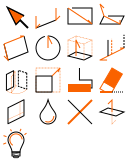
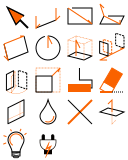
feat(plugins): plugin base and manager

Changed region(s): [[0.75, 0.1875, 1.0, 0.375], [0.2812, 0.8438, 0.4688, 1.0]]

diff --git a/core/src/main/kotlin/com/github/alfu32/sketch/ui/SketchUiOverlay.kt b/core/src/main/kotlin/com/github/alfu32/sketch/ui/SketchUiOverlay.kt
@@ -47,6 +47,16 @@ class SketchUiOverlay(
     private val pluginDownload: (String?) -> Unit,
     private val pluginReload: () -> Unit
 ) {
+    private open class CollapsibleTable : VisTable() {
+        override fun getPrefWidth(): Float {
+            return if (isVisible) super.getPrefWidth() else 0f
+        }
+
+        override fun getPrefHeight(): Float {
+            return if (isVisible) super.getPrefHeight() else 0f
+        }
+    }
+
     val stage: Stage = Stage(ScreenViewport())
     private val toolButtons = mutableMapOf<ToolId, VisImageTextButton>()
     private val buttonLabels = mutableMapOf<VisImageTextButton, String>()
@@ -78,7 +88,7 @@ class SketchUiOverlay(
     private var colorPicker: ColorPicker? = null
     private var lightingPanel: VisTable? = null
     private val lightingRefreshers = mutableListOf<() -> Unit>()
-    private val pluginPanel = VisTable()
+    private val pluginPanel = CollapsibleTable()
     private val pluginListTable = VisTable()
     private val pluginUrlField = VisTextField()
     private var lastPluginSnapshot: List<PluginEntryInfo> = emptyList()
@@ -92,17 +102,17 @@ class SketchUiOverlay(
         val toolbar = buildToolbar()
         val selectionPanel = buildSelectionPanel()
         val groupPanel = buildGroupPanel()
-        val lightingPanel = buildLightingPanel()
         val pluginsPanel = buildPluginPanel()
+        val lightingPanel = buildLightingPanel()
         val rightColumn = Table()
         rightColumn.add(selectionPanel).top().right().row()
-        rightColumn.add(groupPanel).top().right().padTop(6f).row()
-        rightColumn.add(lightingPanel).top().right().padTop(6f).row()
-        rightColumn.add(pluginsPanel).top().right().padTop(6f).row()
+        rightColumn.add(groupPanel).top().right().padTop(2f).row()
+        rightColumn.add(pluginsPanel).top().right().padTop(2f).row()
+        rightColumn.add(lightingPanel).top().right().padTop(2f).row()
         val mainRow = Table()
-        mainRow.add(toolbar).top().left().pad(8f)
+        mainRow.add(toolbar).top().left().pad(6f)
         mainRow.add().expand().fill()
-        mainRow.add(rightColumn).top().right().pad(8f)
+        mainRow.add(rightColumn).top().right().pad(6f)
 
         root.add(mainRow).expand().fill().row()
         root.add(buildStatusBar()).expandX().fillX().bottom().pad(0f)
@@ -160,7 +170,7 @@ class SketchUiOverlay(
 
     private fun buildToolbar(): VisTable {
         val toolbar = VisTable()
-        toolbar.defaults().pad(4f).padRight(6f).left()
+        toolbar.defaults().pad(2f).padRight(6f).left()
         toolbar.add(VisLabel("Tools")).row()
 
         val group = ButtonGroup<VisImageTextButton>()
@@ -265,9 +275,10 @@ class SketchUiOverlay(
         toolbar.add(lightingButton).left().padRight(6f).row()
 
         val pluginFallback = createActionIconDrawable(Color(0.6f, 0.6f, 0.6f, 1f))
-        val pluginButton = VisImageTextButton("Plugins", iconFor("plugins", pluginFallback))
+        val pluginIcon = iconFor("plugins", pluginFallback)
+        val pluginButton = VisImageTextButton("Plugins", pluginIcon)
         applyWhiteButtonStyle(pluginButton)
-        applyIconStyle(pluginButton, iconFor("plugins", pluginButton.image.drawable))
+        applyIconStyle(pluginButton, pluginIcon)
         buttonLabels[pluginButton] = "Plugins"
         pluginButton.addListener(hoverListener(pluginButton))
         pluginButton.addListener(object : ClickListener() {
@@ -283,7 +294,7 @@ class SketchUiOverlay(
     private fun buildStatusBar(): VisTable {
         val bar = VisTable()
         bar.background = darkBarDrawable ?: createDarkBarDrawable().also { darkBarDrawable = it }
-        bar.defaults().pad(4f)
+        bar.defaults().pad(2f)
         bar.add(toolLabel).left()
         bar.add(messageLabel).expandX().left()
         bar.add(copyLabel).left()
@@ -295,7 +306,7 @@ class SketchUiOverlay(
     private fun buildSelectionPanel(): VisTable {
         val panel = VisTable()
         panel.background = darkBarDrawable ?: createDarkBarDrawable().also { darkBarDrawable = it }
-        panel.defaults().pad(8f).left()
+        panel.defaults().pad(4f).left()
         panel.add(VisLabel("Selection")).row()
         panel.add(selectionEdgesLabel).row()
         panel.add(selectionFacesLabel).row()
@@ -305,7 +316,7 @@ class SketchUiOverlay(
 
     private fun buildGroupPanel(): VisTable {
         groupPanel.background = darkBarDrawable ?: createDarkBarDrawable().also { darkBarDrawable = it }
-        groupPanel.defaults().pad(6f).left().growX()
+        groupPanel.defaults().pad(4f).left().growX()
         groupPanel.add(VisLabel("Group")).left().row()
         groupPanel.add(groupStatusLabel).left().row()
         groupPanel.add(VisLabel("Name")).left().row()
@@ -366,9 +377,9 @@ class SketchUiOverlay(
     }
 
     private fun buildLightingPanel(): VisTable {
-        val panel = VisTable()
+        val panel = CollapsibleTable()
         panel.background = darkBarDrawable ?: createDarkBarDrawable().also { darkBarDrawable = it }
-        panel.defaults().pad(6f).left().growX()
+        panel.defaults().pad(4f).left().growX()
         panel.add(VisLabel("Lighting")).row()
         panel.add(
             buildLightingSlider("Shadow value", lightingSettings.shadowLightValue) { value ->
@@ -447,7 +458,7 @@ class SketchUiOverlay(
 
     private fun buildPluginPanel(): VisTable {
         pluginPanel.background = darkBarDrawable ?: createDarkBarDrawable().also { darkBarDrawable = it }
-        pluginPanel.defaults().pad(6f).left().growX()
+        pluginPanel.defaults().pad(4f).left().growX()
         pluginPanel.add(VisLabel("Plugins")).row()
 
         val addRow = VisTable()

diff --git a/core/src/main/kotlin/com/github/alfu32/sketch/plugin/PluginHost.kt b/core/src/main/kotlin/com/github/alfu32/sketch/plugin/PluginHost.kt
@@ -8,9 +8,9 @@ import com.github.alfu32.sketch.model.ModelPersistence
 import com.github.alfu32.sketch.ui.StatusModel
 import com.github.alfu32.sketch.ui.ToolId
 import java.io.File
+import groovy.lang.GroovyClassLoader
+import groovy.lang.GroovyShell
 import java.net.URL
-import java.net.URLClassLoader
-import java.util.ServiceLoader
 import kotlin.math.absoluteValue
 
 class PluginHost(
@@ -21,12 +21,12 @@ class PluginHost(
     private val shadow: com.github.alfu32.sketch.ui.ShadowSettings,
     private val getActiveTool: () -> ToolId,
     private val getCopyMode: () -> Boolean,
-    private val getCursorSnap: () -> com.github.alfu32.sketch.input.SnapResult?
+    private val getCursorSnap: () -> com.github.alfu32.sketch.input.SnapResult?,
+    private val pluginsDir: File
 ) : PluginRegistry {
     override val plugins: MutableSet<Plugin> = mutableSetOf()
     private val pluginStates = mutableMapOf<String, PluginState>()
     private val pluginIdToEntry = mutableMapOf<String, String>()
-    private val pluginsDir = File("plugins")
     private val catalogFile = File(pluginsDir, "plugins.json")
     private var catalog = PluginCatalog()
 
@@ -35,7 +35,7 @@ class PluginHost(
         pluginsDir.mkdirs()
         val known = catalog.plugins.map { entryFile(it).name }.toSet()
         var added = false
-        pluginsDir.listFiles { file -> file.isFile && file.extension.equals("jar", ignoreCase = true) }
+        pluginsDir.listFiles { file -> file.isFile && file.extension.equals("groovy", ignoreCase = true) }
             ?.forEach { file ->
                 if (!known.contains(file.name)) {
                     catalog.plugins.add(
@@ -254,29 +254,28 @@ class PluginHost(
 
     private fun fileNameFromUrl(url: String): String {
         val sanitized = url.substringAfterLast('/').ifBlank {
-            "plugin-${url.hashCode().absoluteValue}.jar"
+            "plugin-${url.hashCode().absoluteValue}.groovy"
         }
-        return if (sanitized.endsWith(".jar")) sanitized else "$sanitized.jar"
+        return if (sanitized.endsWith(".groovy")) sanitized else "$sanitized.groovy"
     }
 
     private fun loadEntry(entry: PluginEntry) {
-        val jar = entryFile(entry)
-        if (!jar.exists()) {
-            pluginStates[entry.url] = PluginState(null, null, "Missing jar ${jar.name}")
+        val script = entryFile(entry)
+        if (!script.exists()) {
+            pluginStates[entry.url] = PluginState(null, null, "Missing script ${script.name}")
             return
         }
         try {
-            val loader = URLClassLoader(arrayOf(jar.toURI().toURL()), javaClass.classLoader)
-            val loaded = ServiceLoader.load(Plugin::class.java, loader).iterator().asSequence().toList()
-            if (loaded.isEmpty()) {
-                pluginStates[entry.url] = PluginState(loader, null, "No Plugin services found")
+            val loader = GroovyClassLoader(javaClass.classLoader)
+            val scriptText = script.readText()
+            val plugin = instantiatePlugin(scriptText, script.name, loader)
+            if (plugin == null) {
+                pluginStates[entry.url] = PluginState(loader, null, "No Plugin instance returned")
                 return
             }
-            loaded.forEach { plugin ->
-                plugins.add(plugin)
-                pluginStates[entry.url] = PluginState(loader, plugin, null)
-                pluginIdToEntry[plugin.id] = entry.url
-            }
+            plugins.add(plugin)
+            pluginStates[entry.url] = PluginState(loader, plugin, null)
+            pluginIdToEntry[plugin.id] = entry.url
         } catch (ex: Exception) {
             pluginStates[entry.url] = PluginState(null, null, ex.message ?: "Load failed")
         }
@@ -319,8 +318,25 @@ class PluginHost(
     }
 
     private data class PluginState(
-        val loader: URLClassLoader?,
+        val loader: GroovyClassLoader?,
         val plugin: Plugin?,
         var lastError: String?
     )
+
+    private fun instantiatePlugin(
+        scriptText: String,
+        scriptName: String,
+        loader: GroovyClassLoader
+    ): Plugin? {
+        val shell = GroovyShell(loader)
+        val result = shell.evaluate(scriptText, scriptName)
+        if (result is Plugin) {
+            return result
+        }
+        val scriptClass = loader.parseClass(scriptText, scriptName)
+        if (Plugin::class.java.isAssignableFrom(scriptClass)) {
+            return scriptClass.getDeclaredConstructor().newInstance() as Plugin
+        }
+        return null
+    }
 }

diff --git a/core/src/main/kotlin/com/github/alfu32/sketch/Main.kt b/core/src/main/kotlin/com/github/alfu32/sketch/Main.kt
@@ -107,6 +107,7 @@ class Main(private val startupArgs: kotlin.Array<String> = emptyArray()) : Appli
     private var shadowUseCsm = true
     private lateinit var shadowSettings: ShadowSettings
     private lateinit var pluginHost: PluginHost
+    private lateinit var installDir: java.io.File
 
     override fun create() {
         if (!VisUI.isLoaded()) {
@@ -125,6 +126,7 @@ class Main(private val startupArgs: kotlin.Array<String> = emptyArray()) : Appli
             rotateButton = Input.Buttons.RIGHT
             translateButton = Input.Buttons.RIGHT
         }
+        installDir = resolveInstallDir()
         statusModel = StatusModel(
             activeTool = ToolId.SELECT,
             message = "Select entities.",
@@ -186,7 +188,8 @@ class Main(private val startupArgs: kotlin.Array<String> = emptyArray()) : Appli
             shadowSettings,
             { toolController.activeToolId() },
             { statusModel.copyMode },
-            { lastSnap }
+            { lastSnap },
+            java.io.File(installDir, "plugins")
         )
         uiOverlay = SketchUiOverlay(
             toolController,
@@ -633,6 +636,19 @@ class Main(private val startupArgs: kotlin.Array<String> = emptyArray()) : Appli
             fileArg = "sketch3d.skate.json"
         }
         return java.io.File(fileArg).absoluteFile
+    }
+
+    private fun resolveInstallDir(): java.io.File {
+        return try {
+            val location = java.io.File(Main::class.java.protectionDomain.codeSource.location.toURI())
+            if (location.isFile) {
+                location.parentFile ?: java.io.File(System.getProperty("user.dir"))
+            } else {
+                location
+            }
+        } catch (_: Exception) {
+            java.io.File(System.getProperty("user.dir"))
+        }
     }
 
     private fun selectionInfo(): SketchUiOverlay.SelectionInfo {
